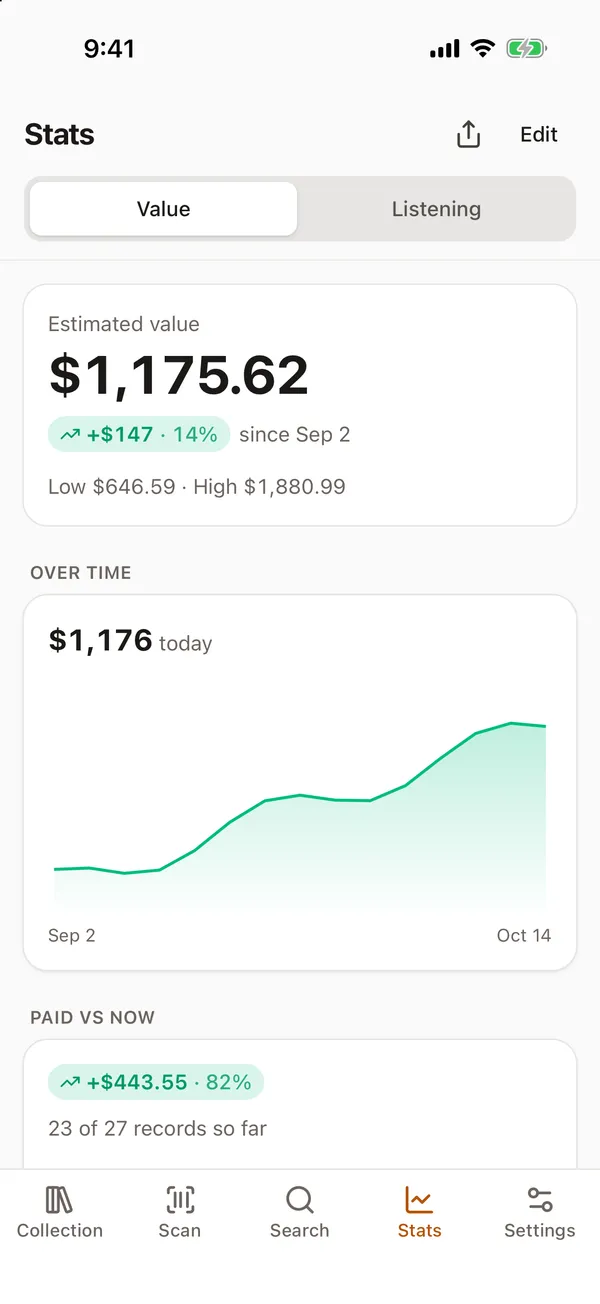
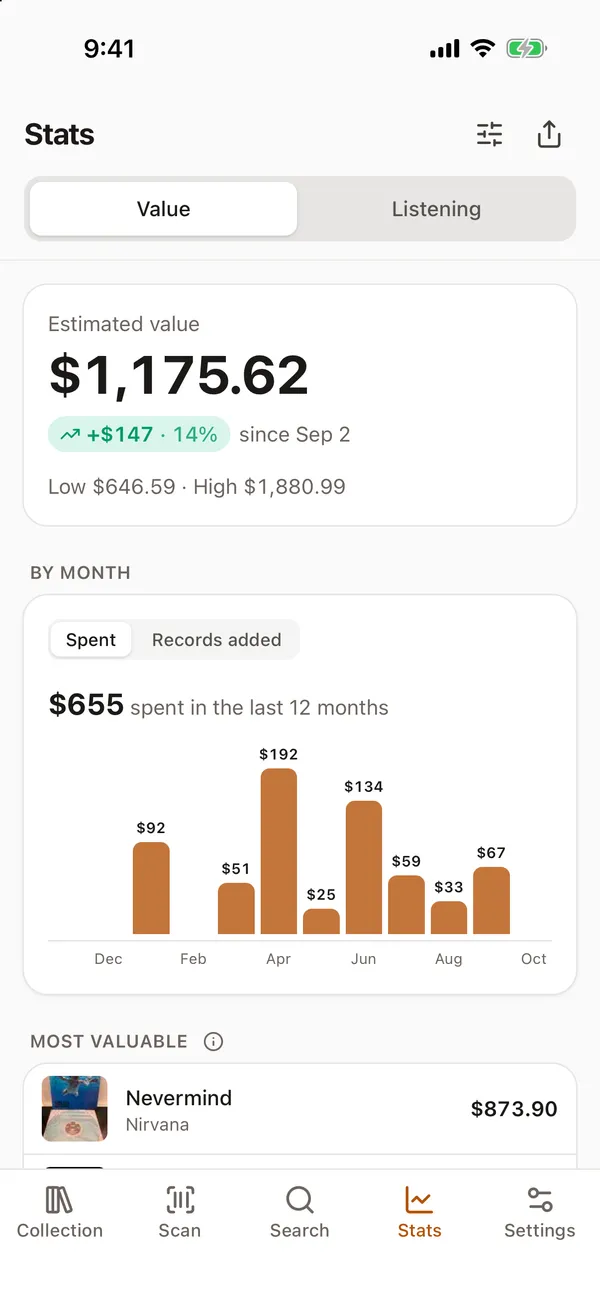
New tour GIF and desktop screenshots in the README

diff --git a/README.md b/README.md
@@ -5,10 +5,19 @@ Catalog your records on Discogs. Point your phone at a barcode and Platter finds
 Live at [platter.tadinada.com](https://platter.tadinada.com), or [try the demo](https://platter.tadinada.com/?demo).
 
 <p>
-  <img src="docs/collection.webp" width="200" alt="The collection as a grid of covers">
-  <img src="docs/record.webp" width="200" alt="A record page">
-  <img src="docs/stats.webp" width="200" alt="The Value view of the Stats tab">
-  <img src="docs/tour.gif" width="200" alt="Opening a record, then the Stats tab">
+  <img src="docs/tour.gif" width="220" alt="Browsing the collection, opening a record, then the Stats tab">
+  <img src="docs/collection.webp" width="220" alt="The collection as a grid of covers">
+  <img src="docs/record.webp" width="220" alt="A record page">
+  <img src="docs/stats.webp" width="220" alt="The Value view of the Stats tab">
+</p>
+
+On a computer:
+
+<p>
+  <img src="docs/desktop-collection.webp" width="440" alt="The collection on a wide screen">
+  <img src="docs/desktop-record.webp" width="440" alt="A record page on a wide screen">
+  <img src="docs/desktop-stats.webp" width="440" alt="The Value view on a wide screen">
+  <img src="docs/desktop-listening.webp" width="440" alt="The Listening view in dark mode">
 </p>
 
 ## What it does
